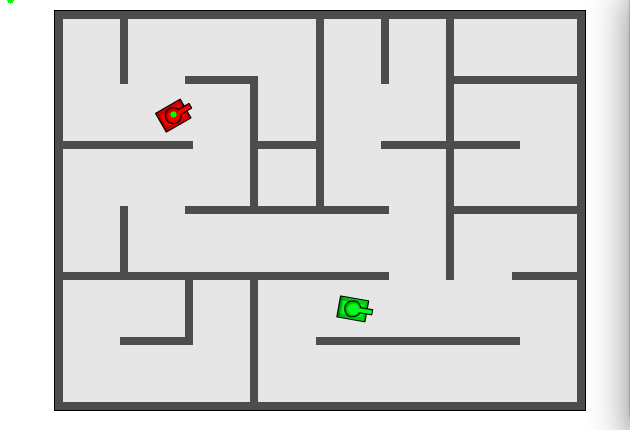
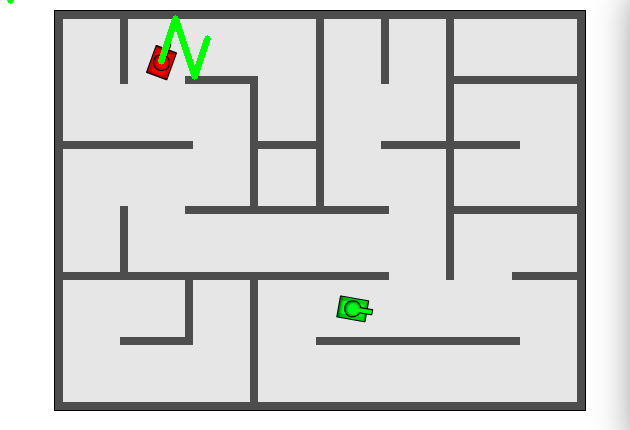
basic raytracing

Changed region(s): [[0.9952, 0.0, 1.0, 0.9674], [0.2111, 0.0302, 0.3317, 0.1814], [0.2413, 0.2116, 0.3016, 0.3023]]

diff --git a/linedetecttest.py b/linedetecttest.py
@@ -55,10 +55,15 @@ def lineFind(img):
     return minLength[1]
 
 def raytrace(img, p, d):
+    print(img)
     cv2.circle(img, (10,0), 3, (0, 255, 0, 255), -1)
     curr = [p[1], p[0]]
-    for i in range(1):
+    pix = np.array([77, 77, 77, 255])
+    walls = cv2.inRange(img, pix, pix)
+    for i in range(140):
         intcurr = (int(curr[0]), int(curr[1]))
+        if walls[intcurr[1]][intcurr[0]] > 0:
+            d = [-d[0], d[1]]
         cv2.circle(img, intcurr, 3, (0, 255, 0, 255), -1)
         curr = [curr[0] + d[1], curr[1] + d[0]]
         print(curr)

diff --git a/ImCap.py b/ImCap.py
@@ -25,4 +25,4 @@ p = findTankCentroid(img, "red")
 print(p)
 cv2.imwrite("cropped.png", img[(p[0] - 50) : (p[0] + 50), (p[1] - 50) : (p[1] + 50)])
 m = lineFind(img[p[0] - 25 : p[0] + 25, p[1] -25 : p[1] + 25])
-raytrace(img, p, (1, -1/m))
+raytrace(img, p, [-1, 1/m])
